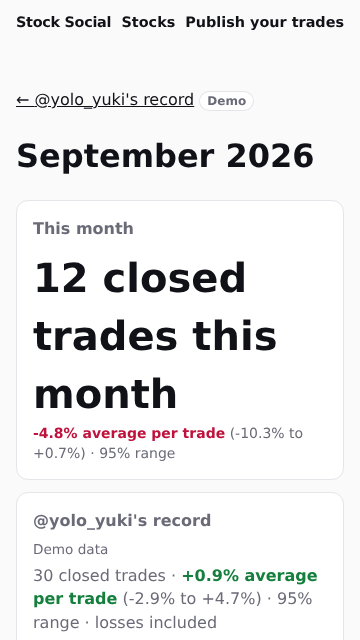
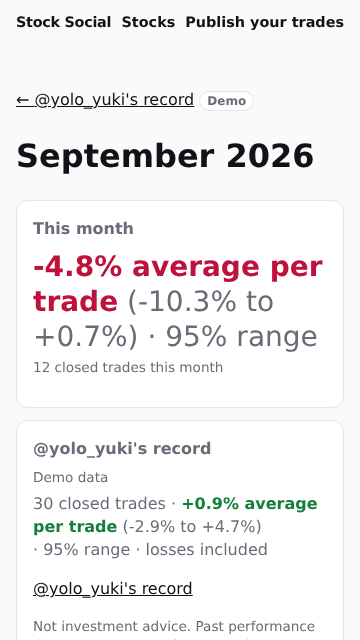
F-10 test: the strip's part wrappers (data-part) in the DS-22 markup check; month screenshots
Claude-Session: https://claude.ai/code/session_01Cdty8oLdRgNVj4eet6CDs2

Changed region(s): [[0.0917, 0.375, 0.8861, 1.0]]

diff --git a/lib/f10-feed-card.test.ts b/lib/f10-feed-card.test.ts
@@ -78,12 +78,12 @@ test('DS-22 (PR #48): with a strip, the trust badge leads the record line in .he
   const header = html.match(/<header>([\s\S]*?)<\/header>/)?.[1] ?? '';
   assert.doesNotMatch(header, /class="badge/);
   const p = html.slice(html.indexOf('<p class="record-strip"'), html.indexOf('</p>', html.indexOf('<p class="record-strip"')));
-  assert.match(p, /^<p class="record-strip" data-strip(="[^"]*")?><span class="badge verified"[^>]*>✓ Verified<\/span> <span><span data-role="count">/);
+  assert.match(p, /^<p class="record-strip" data-strip(="[^"]*")?><span class="badge verified"[^>]*>✓ Verified<\/span> <span( data-part="count")?><span data-role="count">/);
   // Demo records keep the .badge.demo class; a failed import shows no badge and no stray space.
   const demo = renderToStaticMarkup(createElement(TradeCard, { t: { ...row, verified: false }, state: 'connected', strip: stripOf(rec(3, () => 0.1)) }));
   assert.match(demo, /<p class="record-strip" data-strip(="[^"]*")?><span class="badge demo"/);
   const failed = renderToStaticMarkup(createElement(TradeCard, { t: row, state: 'failed', strip: stripOf(rec(3, () => 0.1)) }));
-  assert.match(failed, /<p class="record-strip" data-strip(="[^"]*")?><span><span data-role="count">/);
+  assert.match(failed, /<p class="record-strip" data-strip(="[^"]*")?><span( data-part="count")?><span data-role="count">/);
   assert.doesNotMatch(failed, /class="badge/);
 });
 
